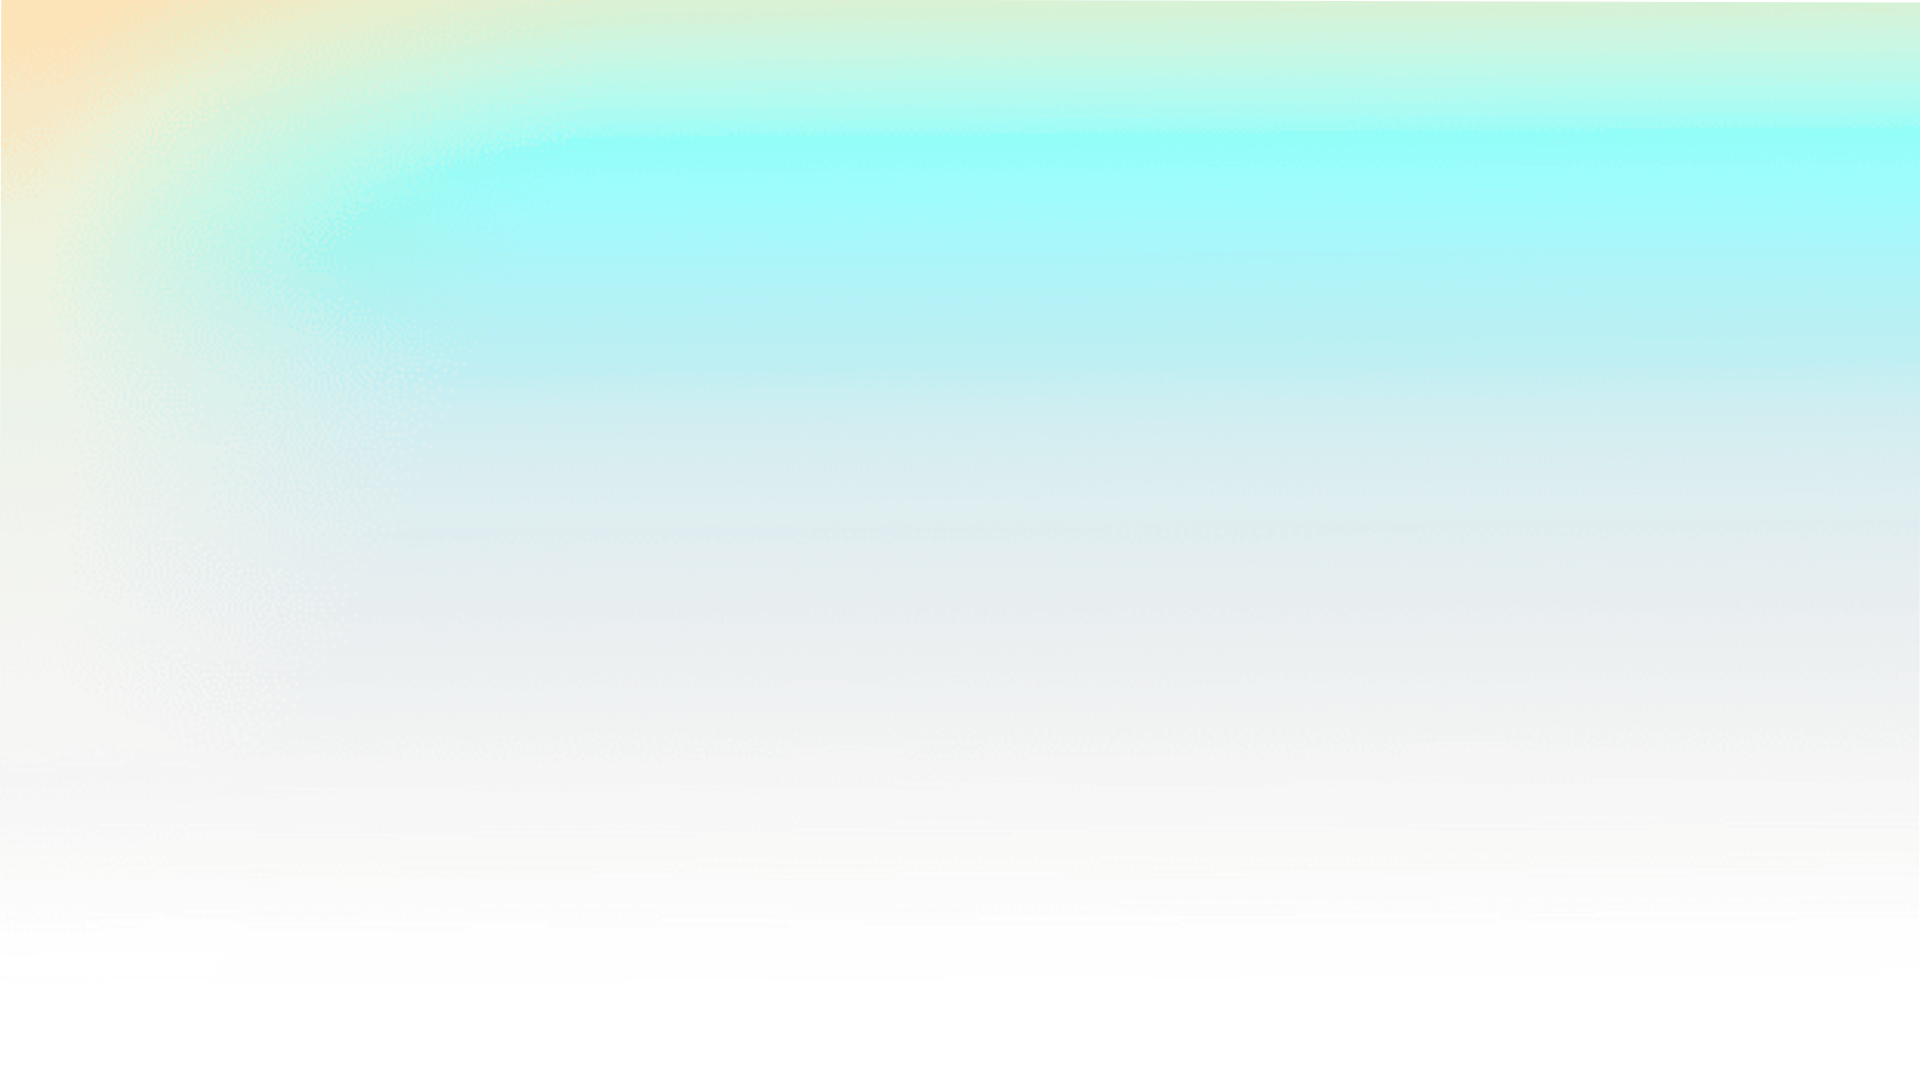
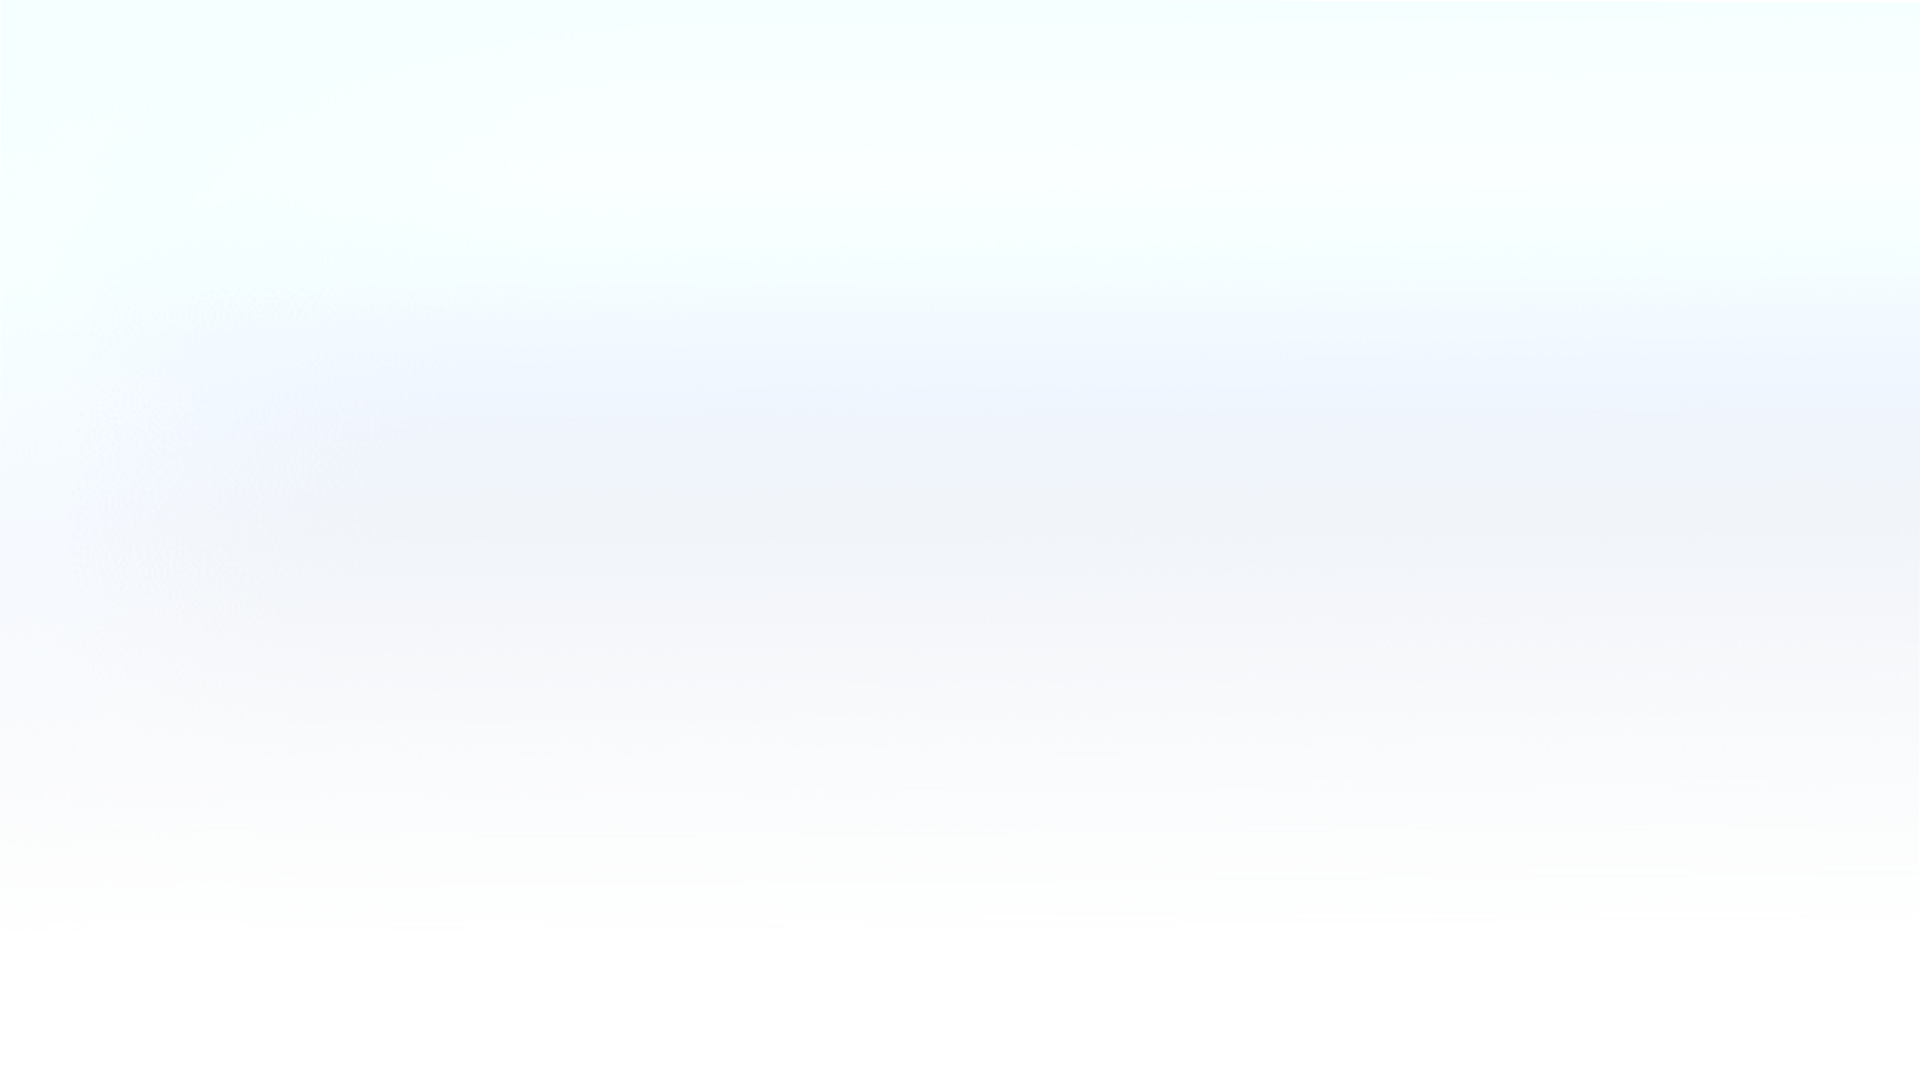
style change

diff --git a/app/components/WhatMakesDifferent.tsx b/app/components/WhatMakesDifferent.tsx
@@ -4,59 +4,62 @@ import { motion } from "framer-motion";
 
 const aboutCards = [
   {
-    icon:"⟡",
+    icon: "⟡",
     title: "My Mission",
     description: "I craft digital experiences that align with your brand and goals, blending creativity with functionality.",
   },
   {
-    icon:"⟡",
+    icon: "⟡",
     title: "My Vision",
     description: "Committed to creating digital solutions that enhance user interaction and increase conversion.",
   },
   {
-    icon:"⟡",
+    icon: "⟡",
     title: "My Focus",
     description: "Is centered to meet your specific needs, driving success to thrive your business.",
   },
 ];
 
-
 export default function WhatMakesDifferent() {
   return (
     <section id="what" className="py-24 px-6">
-      <div className="container mx-auto max-w-6xl">       
+      <div className="container mx-auto max-w-5xl">
         <motion.div
           initial={{ opacity: 0, y: 20 }}
           whileInView={{ opacity: 1, y: 0 }}
           viewport={{ once: true }}
-          transition={{ duration: 0.6 }}
-          className="text-center max-w-4xl mx-auto"
+          transition={{ duration: 1 }}
+          className="text-center max-w-5xl mx-auto"
         >
           <h2 className="text-4xl mt-10 md:text-5xl font-bold text-black mb-6">
             What makes me different?
           </h2>
- 
-          
+
+          <div className="bg-white relative p-10 rounded-2xl grid grid-cols-1 md:grid-cols-3 gap-10">
+            {aboutCards.map((card, index) => (
+              <motion.div
+                key={card.title}
+                initial={{ opacity: 0, y: 20 }}
+                whileInView={{ opacity: 1, y: 0 }}
+                viewport={{ once: true }}
+                transition={{ delay: index * 0.1, duration: 0.5 }}
+                whileHover={{ y: -5, scale: 1.02 }}
+                className="p-6 rounded-2xl  p-1 border border-white/10 backdrop-blur-sm"
+              >
+                <span className="text-3xl mb-4 text-white bg-[#ff4a00] rounded-xl w-auto px-2">{card.icon}</span>
+                <h3 className="text-xl mt-4 font-semibold text-black mb-3">{card.title}</h3>
+                <p className="text-black leading-relaxed text-sm">{card.description}</p>
+              </motion.div>
+            ))}
+          </div>
+
 
           <div className="grid grid-cols-1 md:grid-cols-3 gap-6">
-          {aboutCards.map((card, index) => (
-            <motion.div
-              key={card.title}
-              initial={{ opacity: 0, y: 20 }}
-              whileInView={{ opacity: 1, y: 0 }}
-              viewport={{ once: true }}
-              transition={{ delay: index * 0.1, duration: 0.5 }}
-              whileHover={{ y: -5, scale: 1.02 }}
-              className="p-6 rounded-2xl  p-1 border border-white/10 backdrop-blur-sm"
-            >
-                <span className="text-3xl mb-4 text-white bg-[#ff4a00] rounded-xl w-auto px-2">{ card.icon }</span>
-                <h3 className="text-xl mt-4 font-semibold text-black mb-3">{card.title}</h3>
-              <p className="text-black leading-relaxed">{card.description}</p>
-            </motion.div>
-          ))}
-        </div>
+
+          </div>
         </motion.div>
       </div>
+
     </section>
   );
 }

diff --git a/app/components/Hero.tsx b/app/components/Hero.tsx
@@ -33,39 +33,15 @@ export default function Hero() {
       >
         <div className="flex flex-col items-center text-center relative z-0">
 
-
           {/* <div className="w-70 h-70 bg-[#E7E7E7] absolute top-[-10] left-60">
             <div className="w-50 h-50 bg-[#A6E7AE] absolute top-30 left-40 opacity-30">
             </div>
           </div> */}
 
-          {/* Profile Image */}
-          {/* <motion.div
-            variants={itemVariants}
-            className="relative mb-6"
-          >
-            <div aclassName="w-42 h-52 rounded-full bg-gradient-to-r from-teal-400 to-yellow-500 p-1">
-              <div aclassName="w-full h-full rounded-full bg-black flex items-center justify-center">
-                <div className="daniele-bg w-38 h-38 arounded-full flex items-center justify-center text-white text-4xl">
-                </div>
-              </div>
-            </div>
-            
-          </motion.div> */}
-
-          {/* Avail For Hire Tag */}
-          {/* <motion.div
-            variants={itemVariants}
-            className="my-5">
-            <span className="px-4 py-2 rounded-full bg-white border border-white/10 text-sm">
-              Avail For Hire
-            </span>
-          </motion.div> */}
-
           {/* Main Heading */}
           <motion.h1
             variants={itemVariants}
-            className="md:text-2xl mb-6 leading-tight text-black z-10"
+            className="md:text-2xl mt-10 m-6 leading-tight text-black z-10"
           >
             Crafting innovative {" "}
             <span className="bg-indigo-500 bg-gradient-to-r to-[#ff4a00] from-[#2962b2] bg-clip-text text-transparent">
@@ -89,22 +65,7 @@ export default function Hero() {
           >
 
           </motion.div>
-
-          {/* Skill Tags */}
-          {/* <motion.div
-            variants={itemVariants}
-            className="flex flex-wrap gap-3 justify-center mb-12"
-          >
-            {["Ai", "Product Management", "Engineering", "Leadership", "Business Growth"].map((tag) => (
-              <span
-                key={tag}
-                className="px-4 py-2 rounded-full bg-black/50 border border-white/10 text-white/80 text-sm"
-              >
-                {tag}
-              </span>
-            ))}
-          </motion.div> */}
-
+          
         </div>
       </motion.div>
     </section>

diff --git a/app/components/AboutUs.tsx b/app/components/AboutUs.tsx
@@ -32,15 +32,15 @@ export default function AboutUs() {
             <div className="text-left">
               <h3 className="mb-2">Here is a bit about me</h3>
 
-              <p className="text-md mb-4 leading-[1.8]">
+              <p className="text-sm mb-4 leading-[1.8]">
                 I’m a qualified Product Leader with more than 15 years of experience in the tech field and travel industry.{" "}
                 <br />
                 I kicked off my career working as a developer for almost 10 years, gaining a solid technical fluency and a clear understanding of the product development life cycle.
               </p>
-              <p className="text-md mb-4 leading-[1.8]">
+              <p className="text-sm mb-4 leading-[1.8]">
                 Beyond my technological background, I have developed significant expertise in the travel industry, collaborating with international suppliers and clients and leading a team of over 40 people.
               </p>
-              <p className="text-md mb-4 leading-[1.8]">
+              <p className="text-sm mb-4 leading-[1.8]">
                 I’m able to bring a blend of technical expertise, user-focused design, and strategic product management. I enjoy collaborating with teams to achieve shared goals with curiosity and adaptability.
               </p>
 

diff --git a/app/components/What.tsx b/app/components/What.tsx
@@ -50,7 +50,7 @@ export default function What() {
                 initial={{ opacity: 0, y: 20 }}
                 whileInView={{ opacity: 1, y: 0 }}
                 viewport={{ once: true }}
-                transition={{ delay: index * 0.1, duration: 0.5 }}
+                transition={{ delay: index * 0.1, duration: 1 }}
                 whileHover={{ y: -5, scale: 1.02 }}
                 
                 className="p-6 rounded-2xl bg-white border border-white/10 backdrop-blur-sm"
@@ -61,7 +61,7 @@ export default function What() {
                 <h3 className="text-xl text-black my-2">{service.title}</h3>
                 <p className="text-black/60 text-sm">{service.description}</p>
                 {
-                  service.tags.map((tag) => (<span className="inline-flex items-center gap-x-1 py-1 px-3 mr-2 mt-2 rounded-2xl text-xs font-medium bg-[#f7f7f7] text-surface-foreground">{tag}</span>))
+                  service.tags.map((tag, index) => (<span className="inline-flex items-center gap-x-1 py-1 px-3 mr-2 mt-2 rounded-2xl text-xs font-medium bg-[#f7f7f7] text-surface-foreground">{tag}</span>))
                 }
 
               </motion.div>

diff --git a/app/globals.css b/app/globals.css
@@ -2,7 +2,7 @@
 
 :root {
   /* Core palette */
-  --background: #f7f7f7;
+  --background: #f3f3f3;
   --foreground: #181515;
   --muted: rgba(24, 21, 21, 0.7);
   --border: rgba(24, 21, 21, 0.12);
@@ -15,7 +15,7 @@
 body {
   background-color: var(--background);
   /* background-image: url("./assets/bg.png"); */
-  background-size: contain;
+  background-size: cover;
   background-position: top center;
   background-repeat: no-repeat;
   background-attachment: fixed;
@@ -50,14 +50,6 @@ h2 {
 
 h3 {
   font-size: clamp(1.125rem, 1.6vw, 1.5rem);
-}
-
-.daniele-bg {
-  background-image: url("./assets/daniele_bg.jpeg");
-  background-size: cover;
-  background-position: center;
-  background-repeat: no-repeat;
-  position: relative;
 }
 
 .navigation-menu {

diff --git a/app/components/Footer.tsx b/app/components/Footer.tsx
@@ -18,7 +18,7 @@ export default function Footer() {
             All rights reserved ©2026
           </p>
 
-          <a href="mailto:hello@danielelaciura.com">
+          <a href="mailto:hello@danielelaciura.com" className="text-sm text-bold">
              hello@danielelaciura.com
           </a>
 
